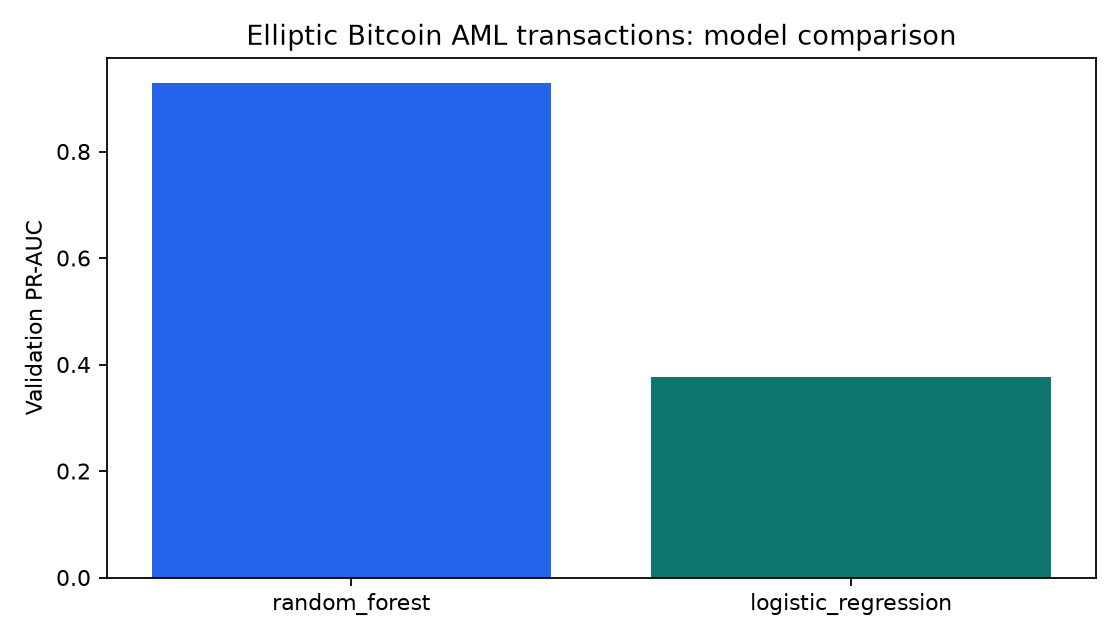
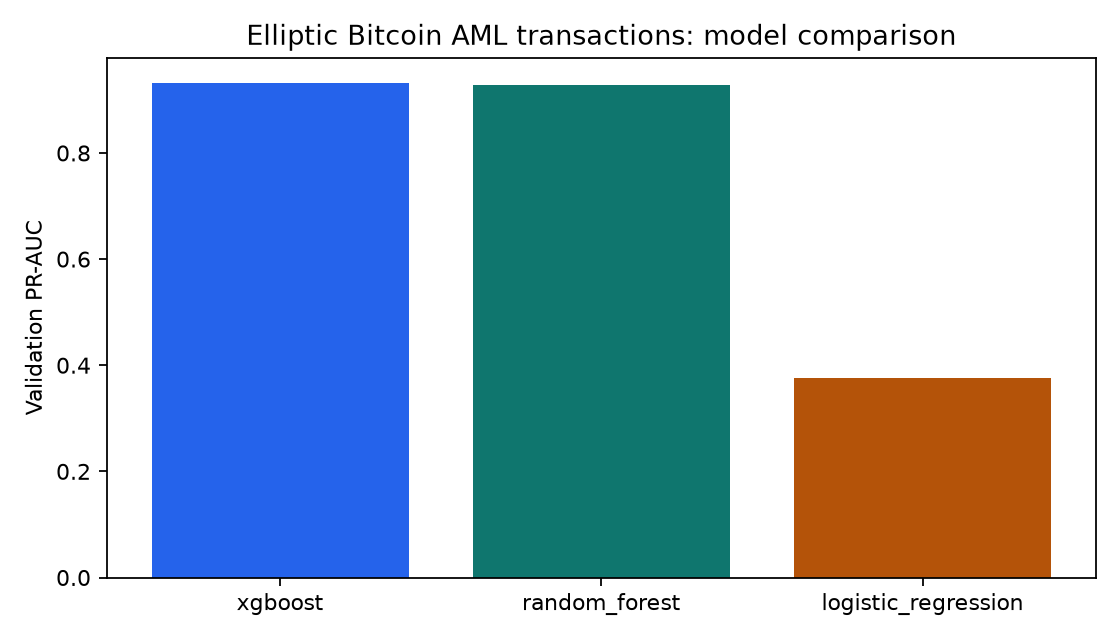
feat: evaluate XGBoost fraud classifier

diff --git a/src/fraudbench/training.py b/src/fraudbench/training.py
@@ -15,6 +15,7 @@ from sklearn.linear_model import LogisticRegression
 from sklearn.metrics import ConfusionMatrixDisplay, PrecisionRecallDisplay
 from sklearn.pipeline import Pipeline
 from sklearn.preprocessing import OneHotEncoder, StandardScaler
+from xgboost import XGBClassifier
 
 from .config import PROJECT_ROOT, load_config
 from .data import CATEGORICAL_COLUMNS, MODEL_COLUMNS, NUMERIC_COLUMNS, load_splits, profile
@@ -37,7 +38,7 @@ def build_preprocessor() -> ColumnTransformer:
     return ColumnTransformer(transformers)
 
 
-def candidate_models(config: dict) -> dict[str, Pipeline]:
+def candidate_models(config: dict, positive_weight: float = 1.0) -> dict[str, Pipeline]:
     seed = int(config["random_seed"])
     return {
         "logistic_regression": Pipeline(
@@ -63,6 +64,29 @@ def candidate_models(config: dict) -> dict[str, Pipeline]:
                         max_depth=int(config["random_forest_max_depth"]),
                         min_samples_leaf=4,
                         class_weight="balanced_subsample",
+                        n_jobs=4,
+                        random_state=seed,
+                    ),
+                ),
+            ]
+        ),
+        "xgboost": Pipeline(
+            [
+                ("preprocessor", build_preprocessor()),
+                (
+                    "classifier",
+                    XGBClassifier(
+                        n_estimators=int(config["xgboost_estimators"]),
+                        max_depth=int(config["xgboost_max_depth"]),
+                        learning_rate=float(config["xgboost_learning_rate"]),
+                        min_child_weight=5,
+                        subsample=0.85,
+                        colsample_bytree=0.85,
+                        reg_lambda=2.0,
+                        scale_pos_weight=positive_weight,
+                        objective="binary:logistic",
+                        eval_metric="aucpr",
+                        tree_method="hist",
                         n_jobs=4,
                         random_state=seed,
                     ),
@@ -101,7 +125,9 @@ def save_plots(comparison, validation, validation_scores, test, test_score, thre
     output = PROJECT_ROOT / "outputs"
     output.mkdir(exist_ok=True)
     figure, axis = plt.subplots(figsize=(7, 4))
-    axis.bar(comparison["model"], comparison["pr_auc"], color=["#2563eb", "#0f766e"])
+    axis.bar(
+        comparison["model"], comparison["pr_auc"], color=["#2563eb", "#0f766e", "#b45309"]
+    )
     axis.set_ylabel("Validation PR-AUC")
     axis.set_title(f"{title}: model comparison")
     figure.tight_layout()
@@ -146,7 +172,8 @@ def train(config_path: str | Path) -> dict:
     train_x, train_y = splits["train"]
     validation_x, validation_y = splits["validation"]
     fitted, validation_scores, thresholds, rows = {}, {}, {}, []
-    for name, model in candidate_models(config).items():
+    positive_weight = float((train_y == 0).sum() / max(1, (train_y == 1).sum()))
+    for name, model in candidate_models(config, positive_weight).items():
         model.fit(train_x, train_y)
         score = model.predict_proba(validation_x)[:, 1]
         threshold = best_f1_threshold(validation_y.to_numpy(), score)
@@ -160,10 +187,14 @@ def train(config_path: str | Path) -> dict:
     test_score = fitted[winner].predict_proba(test_x)[:, 1]
     test_metrics = binary_metrics(test_y, test_score, threshold)
 
-    production = candidate_models(config)[winner]
+    development_target = pd.concat([train_y, validation_y], ignore_index=True)
+    development_weight = float(
+        (development_target == 0).sum() / max(1, (development_target == 1).sum())
+    )
+    production = candidate_models(config, development_weight)[winner]
     production.fit(
         pd.concat([train_x, validation_x], ignore_index=True),
-        pd.concat([train_y, validation_y], ignore_index=True),
+        development_target,
     )
     bundle = {
         "model": production,

diff --git a/README.md b/README.md
@@ -1,6 +1,8 @@
 # Elliptic Real Bitcoin AML ML
 
-Standalone PyCharm project for the real, anonymized Elliptic Bitcoin transaction graph. The baseline compares class-weighted logistic regression and random forest classifiers using published node features and a strict blockchain-time split.
+Standalone PyCharm project for the real, anonymized Elliptic Bitcoin transaction graph. The experiment
+compares class-weighted logistic regression, random forest, and XGBoost using published node features and
+a strict blockchain-time split.
 
 ## Dataset
 
@@ -56,7 +58,10 @@ Weber, M. et al., “Anti-Money Laundering in Bitcoin: Experimenting with Graph 
 
 ## Current trained result
 
-Random forest was selected. On labelled nodes from later blockchain time steps 42–49 it achieved PR-AUC **0.5467**, ROC-AUC **0.8626**, precision **0.9183**, recall **0.4681**, and F1 **0.6201**. The reduction from validation PR-AUC 0.9289 is reported as temporal distribution shift, not hidden by random splitting.
+XGBoost was selected with validation PR-AUC **0.9321**. On labelled nodes from later blockchain time steps
+42–49 it achieved PR-AUC **0.5533**, ROC-AUC **0.8463**, precision **0.8818**, recall **0.4755**, and F1
+**0.6178**. The large reduction from validation performance is reported as temporal distribution shift,
+not hidden by random splitting.
 
 ![Elliptic model comparison](outputs/model_comparison.png)
 
